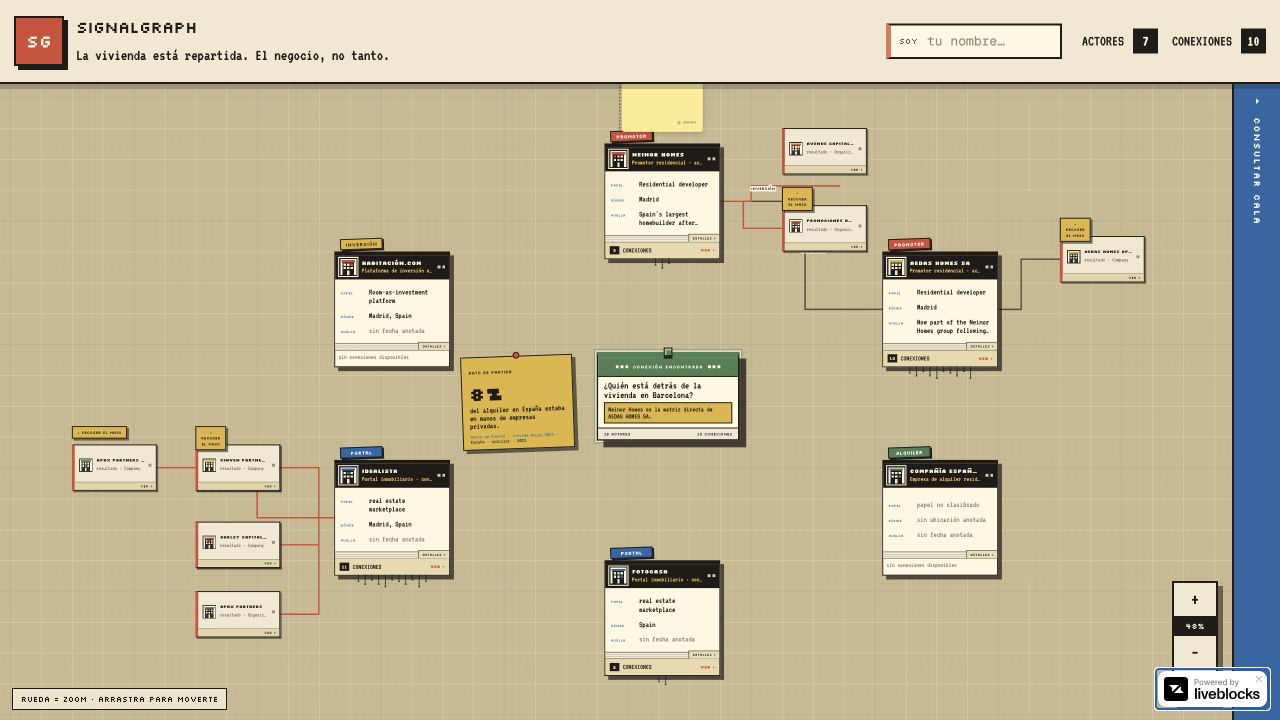
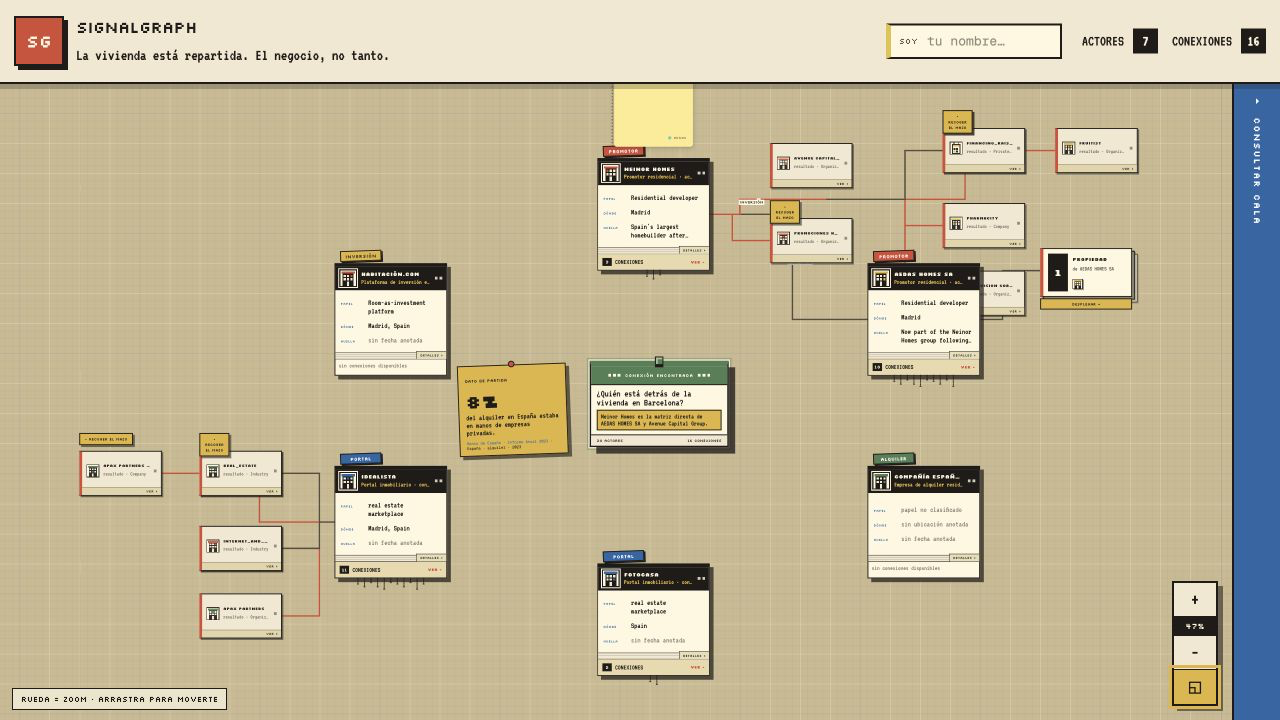
docs: show deeper SignalGraph investigation

diff --git a/docs/linkedin-post.md b/docs/linkedin-post.md
@@ -1,41 +1,41 @@
 # Publicación para LinkedIn
 
-Investigar no debería ser saltar de enlace en enlace hasta olvidar cómo llegaste a la conclusión.
+Quedamos **3º en el hackathon de {Tech: Europe} × Cala** con una idea que construimos en unas 10 horas: investigar tirando del hilo y poder ver, de principio a fin, cómo llegaste a un hallazgo.
 
-En el hackathon de **{Tech: Europe} × Cala** quedamos **3º** con **SignalGraph**, un experimento que construimos en unas 10 horas junto a Arnau Ropero Garcia y Santiago García Monsalve.
+Así nació **SignalGraph**, junto a Arnau Ropero Garcia y Santiago García Monsalve.
 
-La idea parte de una pregunta sencilla: **¿y si una investigación se pudiera recorrer visualmente, tirando del hilo?**
+La mayoría de buscadores y asistentes te entregan una respuesta terminada. SignalGraph hace visible el recorrido:
 
-SignalGraph no entrega una respuesta cerrada. Abre un tablero:
+→ eliges una pregunta y el agente propone las primeras entidades;
 
-→ eliges una pregunta;
+→ clavas una ficha en el tablero y decides qué relación seguir;
 
-→ un agente propone las entidades iniciales;
+→ cada inversión, propiedad, puesto o evento abre una nueva rama;
 
-→ tú decides qué relación seguir —una inversión, una propiedad, una fundación, un puesto…—;
+→ puedes seguir avanzando varias capas, sin perder los pasos anteriores;
 
-→ cada relación trae nuevas fichas con su evidencia;
+→ si dos caminos vuelven a la misma entidad, el tablero marca la conexión;
 
-→ cuando dos recorridos llegan a la misma entidad, aparece una conexión verificable.
+→ y cada dato conserva la fuente que permite comprobarlo.
 
-Ese último punto es el corazón del proyecto. El resultado no aparece por arte de magia: puedes ver **qué entidades conectaste, qué hilo seguiste y qué fuente sostiene cada dato**.
+En el caso de vivienda, por ejemplo, puedes recorrer **Aedas → Neinor Homes → Avenue Capital Group → nuevas inversiones y eventos corporativos**, mientras otras ramas de idealista siguen creciendo en paralelo. No solo ves el resultado: ves **por qué apareció, desde dónde llegaste y qué podrías investigar después**.
 
-Durante la demo investigamos tres casos distintos:
+Durante el hackathon preparamos tres investigaciones:
 
-• las coinversiones entre fondos españoles activos en fintech;
+• coinversiones entre fondos españoles activos en fintech;
 
-• los equipos compartidos detrás de fundadores de fintech;
+• equipos compartidos detrás de fundadores de fintech;
 
-• y quién aparece alrededor del negocio de la vivienda en Barcelona.
+• quién aparece alrededor del negocio de la vivienda en Barcelona.
 
-Además del grafo interactivo, conseguimos añadir consultas en vivo a Cala, evidencia local para que los recorridos ensayados sean inmediatos, detección de entidades reencontradas, preguntas narrativas con IA, cursores y notas colaborativas con Liveblocks, y exportación del camino de investigación como PNG.
+También añadimos consultas en vivo al grafo de conocimiento de Cala, detección de entidades reencontradas, preguntas de seguimiento con IA, notas y cursores colaborativos con Liveblocks y exportación del recorrido como PNG.
 
-Me quedo con dos cosas: lo que se puede construir cuando el equipo toma decisiones rápido, y una intuición que quiero seguir explorando —**la IA puede proponer por dónde mirar sin ocultar cómo se llega al resultado**.
+Lo que más me interesa del proyecto es esta idea: **la IA puede ayudarnos a decidir dónde mirar sin ocultar cómo se construye una conclusión**.
 
 🔎 Demo: https://signal-graph-tau.vercel.app
 
 💻 Código: https://github.com/Gorkah/SignalGraph
 
-Gracias a **Cala** y **{Tech: Europe}** por el reto y por crear el espacio para construirlo.
+Gracias a **Cala** y **{Tech: Europe}** por el reto, y a Arnau y Santiago por construirlo juntos.
 
 #Hackathon #ArtificialIntelligence #KnowledgeGraphs #DataVisualization #Investigación #BuildInPublic #CalaAI #TechEurope

diff --git a/README.md b/README.md
@@ -49,9 +49,9 @@ flowchart LR
 5. **Audita el resultado.** Cada dato conserva la consulta, el archivo, la fecha y, cuando existe, la URL de origen.
 6. **Continúa o comparte.** Abre otra pregunta, deja notas colaborativas o exporta el recorrido hasta una ficha como PNG.
 
-La captura ya no corresponde al estado inicial: primero se siguió la propiedad de Aedas hasta reencontrar a Neinor Homes; desde Neinor se abrió la rama de inversión y desde idealista se desplegaron las ramas de inversión y sector. El resultado conserva en una sola vista la pregunta, el hallazgo y las entidades aparecidas durante el recorrido.
+La captura ya no corresponde al estado inicial. Primero se siguió la propiedad de Aedas hasta reencontrar a Neinor Homes; desde Neinor se abrió la rama de inversión hasta Avenue Capital Group y, desde Avenue, se avanzó otra capa por inversiones y eventos corporativos. En paralelo, idealista abre sus propias ramas de inversión y sector. El resultado reúne **16 conexiones** y deja ver tanto la profundidad de un hilo como las bifurcaciones que se descartaron o todavía se pueden explorar.
 
-![Tablero después de recorrer ramas de propiedad, inversión y sector](docs/screenshots/signalgraph-board.png)
+![Tablero frondoso después de recorrer varias capas de propiedad, inversión, eventos corporativos y sector](docs/screenshots/signalgraph-board.png)
 
 ## Qué hace diferente a SignalGraph
 
@@ -65,9 +65,9 @@ La captura ya no corresponde al estado inicial: primero se siguió la propiedad 
 
 ## Un hallazgo, con su recorrido a la vista
 
-En el caso de vivienda, el tablero parte de una pregunta amplia y de una referencia de contexto. Al seguir la relación de propiedad de Aedas, el hilo regresa a una ficha que ya estaba clavada: Neinor Homes. La investigación continúa desde ese cruce: al abrir sus inversiones aparece Avenue Capital Group como entidad de segunda capa, y al abrir su ficha vuelven a aparecer tanto la fuente original como nuevos hilos que se podrían seguir.
+En el caso de vivienda, el tablero parte de una pregunta amplia y de una referencia de contexto. Al seguir la relación de propiedad de Aedas, el hilo regresa a una ficha que ya estaba clavada: Neinor Homes. La investigación continúa desde ese cruce: sus inversiones llevan hasta Avenue Capital Group y, desde allí, una nueva relación alcanza un evento de financiación. Incluso en esa tercera capa se conserva la descripción, la fecha, la consulta de Cala y el artículo original que sostiene el dato.
 
-![Entidad de segunda capa con sus fuentes y siguientes relaciones](docs/screenshots/signalgraph-finding.png)
+![Hallazgo de tercera capa con su descripción, procedencia y siguiente relación disponible](docs/screenshots/signalgraph-finding.png)
 
 ## Funcionalidades
 
